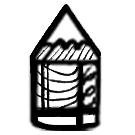
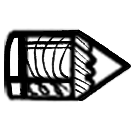
cleaned up asset change code

diff --git a/minimalist-game-framework-core/Game/Game.cs b/minimalist-game-framework-core/Game/Game.cs
@@ -9,7 +9,6 @@ class Game
     EntryScreen es;
     
 
-    Texture ship = Engine.LoadTexture("ship.png");
     Texture shot = Engine.LoadTexture("projectile.png");
     Texture bg = Engine.LoadTexture("background.png");
 
@@ -17,7 +16,7 @@ class Game
     float asteroidTime = 0;
 
     //ship vars
-    float rot = 0;
+    float rot = 180;
     Vector2 mov = new Vector2(100, 100);
     float inertia = 100;
     bool fly = false;
@@ -112,7 +111,8 @@ class Game
         } else
         {
             shipBounds = new Bounds2(mov, new Vector2(100, 100));
-            Engine.DrawTexture(ship, mov, size: new Vector2(100, 100), rotation: rot);
+            //Engine.DrawTexture(ship, mov, size: new Vector2(100, 100), rotation: rot);
+            theme.drawRocketShip(mov, 100, rot);
             //creates a set of bounds simulating the shots for hitboxes
             shotBounds = new Bounds2(smov, new Vector2(10, 10));
             Engine.DrawTexture(shot, smov, size: new Vector2(10, 10));
